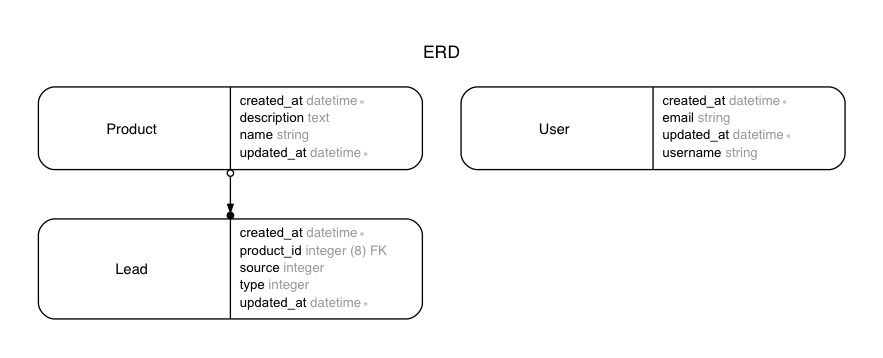
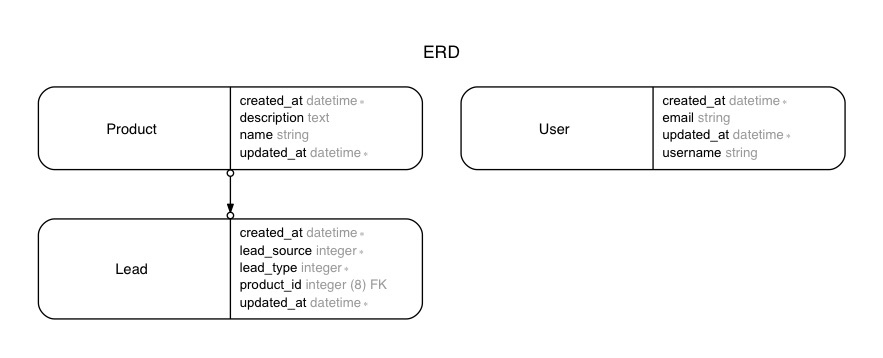
Add contact-form

Changed region(s): [[0.2752, 0.676, 0.4587, 0.8296]]

diff --git a/app/models/contact_form.rb b/app/models/contact_form.rb
@@ -1,0 +1,31 @@
+# Adopted from Go Rails
+# https://github.com/gorails-screencasts/gorails-episode-179/blob/master/app/models/contact_form.rb
+class ContactForm
+  include ActiveModel::Model
+
+  attr_accessor :name, :email, :body, :join_mailing_list
+
+  validates :name, :email, :body, presence: true
+
+  def save
+    if valid?
+      # Do something on success, such as:
+      # - initiating the logic to take care of the user.
+      # - sending email async
+      # - adding it to statistics
+
+      Lead.first_or_create!(
+        lead_type: 1,
+        lead_source: 1,
+        product_id: nil,
+      )
+      true
+    else
+      false
+    end
+  end
+
+  def join_mailing_list
+    ActiveRecord::Type::Boolean.new.cast(@join_mailing_list)
+  end
+end

diff --git a/app/models/lead.rb b/app/models/lead.rb
@@ -2,14 +2,24 @@
 #
 # Table name: leads
 #
-#  id         :integer          not null, primary key
-#  type       :integer
-#  source     :integer
-#  product_id :integer
-#  created_at :datetime         not null
-#  updated_at :datetime         not null
+#  id          :integer          not null, primary key
+#  lead_type   :integer          not null
+#  lead_source :integer          not null
+#  product_id  :integer
+#  created_at  :datetime         not null
+#  updated_at  :datetime         not null
 #
 
 class Lead < ApplicationRecord
-  belongs_to :product
+  belongs_to :product, optional: true
+
+  enum lead_type: {
+    :availability => 1,
+    :appointment  => 2,
+  }
+
+  enum lead_source: {
+    :website => 1,
+    :partner => 2,
+  }
 end

diff --git a/app/controllers/contacts_controller.rb b/app/controllers/contacts_controller.rb
@@ -1,0 +1,22 @@
+# Adopted from Go Rails
+# https://github.com/gorails-screencasts/gorails-episode-179/blob/master/app/controllers/contacts_controller.rb
+class ContactsController < ApplicationController
+  def show
+    @contact_form = ContactForm.new
+  end
+
+  def create
+    @contact_form = ContactForm.new(contact_form_params)
+    if @contact_form.save
+      redirect_to root_path, notice: "Your message was sent! Thanks!"
+    else
+      render action: :show
+    end
+  end
+
+  private
+
+    def contact_form_params
+      params.require(:contact_form).permit(:name, :email, :body, :join_mailing_list)
+    end
+end

diff --git a/test/models/lead_test.rb b/test/models/lead_test.rb
@@ -2,12 +2,12 @@
 #
 # Table name: leads
 #
-#  id         :integer          not null, primary key
-#  type       :integer
-#  source     :integer
-#  product_id :integer
-#  created_at :datetime         not null
-#  updated_at :datetime         not null
+#  id          :integer          not null, primary key
+#  lead_type   :integer          not null
+#  lead_source :integer          not null
+#  product_id  :integer
+#  created_at  :datetime         not null
+#  updated_at  :datetime         not null
 #
 
 require 'test_helper'

diff --git a/db/schema.rb b/db/schema.rb
@@ -16,8 +16,8 @@ ActiveRecord::Schema.define(version: 20170409135628) do
   enable_extension "plpgsql"
 
   create_table "leads", force: :cascade do |t|
-    t.integer "type"
-    t.integer "source"
+    t.integer "lead_type", null: false
+    t.integer "lead_source", null: false
     t.bigint "product_id"
     t.datetime "created_at", null: false
     t.datetime "updated_at", null: false

diff --git a/db/migrate/20170409135628_create_leads.rb b/db/migrate/20170409135628_create_leads.rb
@@ -1,8 +1,8 @@
 class CreateLeads < ActiveRecord::Migration[5.1]
   def change
     create_table :leads do |t|
-      t.integer :type
-      t.integer :source
+      t.integer :lead_type, null: false
+      t.integer :lead_source, null: false
       t.references :product, foreign_key: true
 
       t.timestamps

diff --git a/test/controllers/contacts_controller_test.rb b/test/controllers/contacts_controller_test.rb
@@ -1,0 +1,14 @@
+require 'test_helper'
+
+class ContactsControllerTest < ActionDispatch::IntegrationTest
+  test "should get show" do
+    get contacts_show_url
+    assert_response :success
+  end
+
+  test "should get create" do
+    get contacts_create_url
+    assert_response :success
+  end
+
+end

diff --git a/app/helpers/application_helper.rb b/app/helpers/application_helper.rb
@@ -12,4 +12,9 @@ module ApplicationHelper
     type = :success if bs.include? type
     "alert alert-#{type}"
   end
+
+  # NOTE: This is for demonstration only.
+  def current_user
+    User.first
+  end
 end

diff --git a/config/routes.rb b/config/routes.rb
@@ -1,6 +1,6 @@
 Rails.application.routes.draw do
 
-  get 'leads/index'
+  resource :contact
 
   resources :leads, only: [:index]
   resources :products

diff --git a/app/models/product.rb b/app/models/product.rb
@@ -10,4 +10,5 @@
 #
 
 class Product < ApplicationRecord
+  has_many :leads
 end

diff --git a/README.md b/README.md
@@ -1,11 +1,14 @@
 # Form object app
 
+In this repo, I will practice implementing forms using `ActiveModel::Model`.
+
 ---
 
 ## Dependencies
 - Ruby 2.3.1
 - Rails 5.1.0.rc1
 - Turbolinks
+- Bootstrap 4
 - and much more
 
 ---
